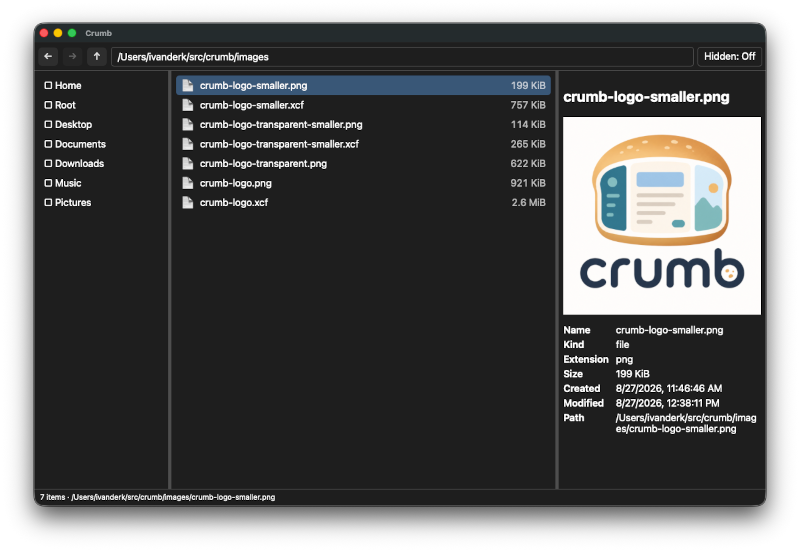
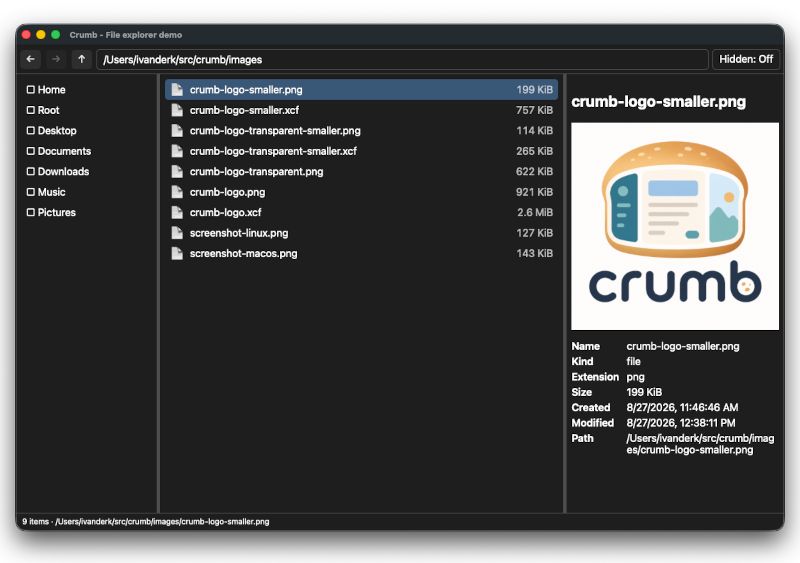
Fixed build regression file-explorer. Changed MacOS screenshot file explorer

Changed region(s): [[0.0, 0.0309, 1.0, 0.9873]]

diff --git a/test/kit/build-time-selection.test.ts b/test/kit/build-time-selection.test.ts
@@ -1,0 +1,39 @@
+import { describe, expect, test } from "bun:test";
+import { registry } from "../../app.config";
+import { resolveApplication } from "../../src/kit/shared/config";
+
+/**
+ * Regression guard. The build embeds one application's user interface, so the
+ * release entry must resolve the application chosen at *build* time. Resolving
+ * a runtime default instead wires the embedded page to another application's
+ * operations — the page loads, then every call it makes is rejected as
+ * undeclared.
+ */
+describe("build-time application selection", () => {
+  test("the release entry takes its selection from the build, not a runtime default", async () => {
+    const entry = await Bun.file("main.ts").text();
+    expect(entry).toContain('from "app:selection"');
+    expect(entry).toContain("resolveApplication(registry, SELECTED_APPLICATION)");
+    // A runtime default or environment lookup is exactly the regression.
+    expect(entry).not.toContain("process.env");
+    expect(entry).not.toContain("registry.default");
+  });
+
+  test("the build supplies the selection virtual module", async () => {
+    const build = await Bun.file("scripts/build.ts").text();
+    expect(build).toContain("app:selection");
+    expect(build).toContain("selectedName");
+  });
+
+  test("the selection module is declared for type checking", async () => {
+    expect(await Bun.file("src/kit/ui/virtual.d.ts").text()).toContain('declare module "app:selection"');
+  });
+
+  test("each application resolves to its own operations", () => {
+    const explorer = resolveApplication(registry, "file-explorer");
+    const starter = resolveApplication(registry, "starter");
+    expect(Object.keys(explorer.operations)).toContain("listDirectory");
+    expect(Object.keys(starter.operations)).not.toContain("listDirectory");
+    expect(explorer.window.title).not.toBe(starter.window.title);
+  });
+});

diff --git a/scripts/build.ts b/scripts/build.ts
@@ -10,11 +10,13 @@ const requested = (Bun.argv.find((argument) => argument.startsWith("--target="))
   ?? (process.platform === "darwin" ? "macos-arm64" : "linux-x64")) as TargetName;
 let application;
 let outputName: string;
+let selectedName: string;
 try {
   const selected = selectedApplicationName(Bun.argv);
   application = resolveApplication(registry, selected);
   // The artifact is named after the selected application unless overridden.
-  outputName = selectedOutputName(Bun.argv) ?? selected ?? registry.default;
+  selectedName = selected ?? registry.default;
+  outputName = selectedOutputName(Bun.argv) ?? selectedName;
   outputPath(outputName, "check");
 } catch (error: unknown) {
   if (error instanceof UnknownApplicationError || error instanceof MissingApplicationNameError || error instanceof InvalidOutputNameError) {
@@ -46,6 +48,8 @@ const embedPlugin: BunPlugin = {
   name: "embed-app-runtime",
   setup(build) {
     build.onResolve({ filter: /^app:ui$/ }, () => ({ path: "app:ui", namespace: "app" }));
+    build.onResolve({ filter: /^app:selection$/ }, () => ({ path: "app:selection", namespace: "app-selection" }));
+    build.onLoad({ filter: /.*/, namespace: "app-selection" }, () => ({ contents: `export default ${JSON.stringify(selectedName)}`, loader: "js" }));
     build.onLoad({ filter: /.*/, namespace: "app" }, () => ({ contents: `export default ${JSON.stringify(html)}`, loader: "js" }));
     build.onResolve({ filter: /^app:native$/ }, () => ({ path: "native-window-wrapper", namespace: "app-native" }));
     build.onLoad({ filter: /.*/, namespace: "app-native" }, () => ({

diff --git a/main.ts b/main.ts
@@ -1,5 +1,9 @@
+import SELECTED_APPLICATION from "app:selection";
 import { startApplication } from "./src/kit/host/main";
 import { resolveApplication } from "./src/kit/shared/config";
 import { registry } from "./app.config";
 
-startApplication(resolveApplication(registry, process.env.CRUMB_APPLICATION || undefined));
+// The application is chosen when the executable is built, not when it runs:
+// the build embeds one application's user interface, so resolving a different
+// one here would wire that page to the wrong operations.
+startApplication(resolveApplication(registry, SELECTED_APPLICATION));

diff --git a/src/kit/ui/virtual.d.ts b/src/kit/ui/virtual.d.ts
@@ -1,3 +1,9 @@
+declare module "app:selection" {
+  /** Name of the application chosen at build time. */
+  const name: string;
+  export default name;
+}
+
 declare module "app:ui" {
   const html: string;
   export default html;

diff --git a/openspec/changes/crumb-developer-experience/tasks.md b/openspec/changes/crumb-developer-experience/tasks.md
@@ -80,7 +80,7 @@ The riskiest step. Get a plain run working before any watcher exists, so a virtu
 - [x] 8.2 `bun run typecheck` passes
 - [x] 8.3 `bun run verify:readonly` passes, scanning the explorer and not the minimal application
 - [x] 8.4 `bun run verify:performance` passes with no regression beyond noise
-- [x] 8.5 Both applications build on macOS arm64; the minimal one runs from an empty directory
+- [x] 8.5 Both applications build on macOS arm64; **each** runs from an empty directory. Originally this only exercised the starter, which let a real regression through: the build embedded the selected application's UI while `main.ts` resolved the registry *default*, so `--example=file-explorer` produced a binary showing the explorer's page wired to the starter's operations — every call rejected as undeclared. Fixed with an `app:selection` virtual module supplying the build-time choice; guarded by `test/kit/build-time-selection.test.ts`
 - [x] 8.6 A release executable has DevTools disabled
 - [x] 8.7 CI green on both supported targets
 - [x] 8.8 A fresh clone, `bun install`, `bun run dev` opens the minimal application, and its complete source reads in one sitting
